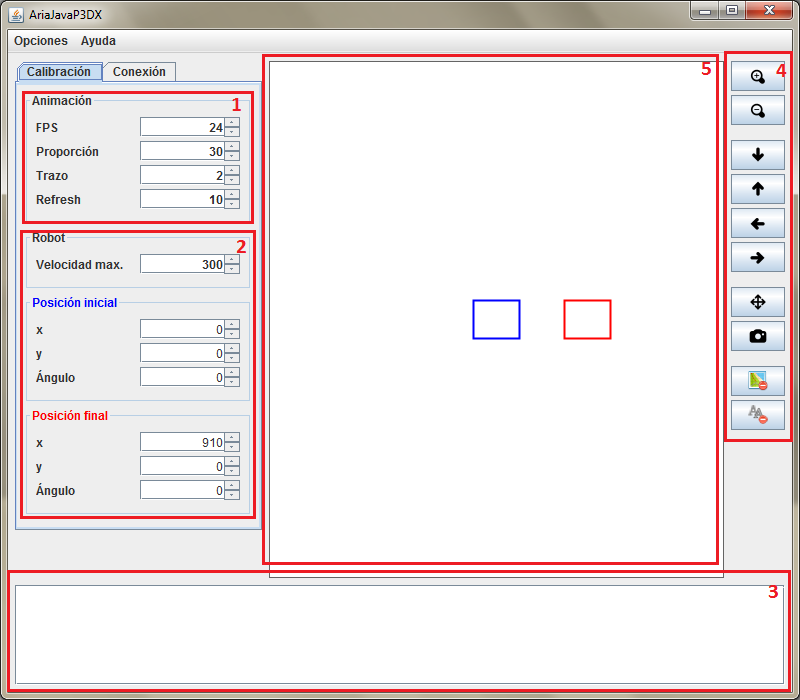
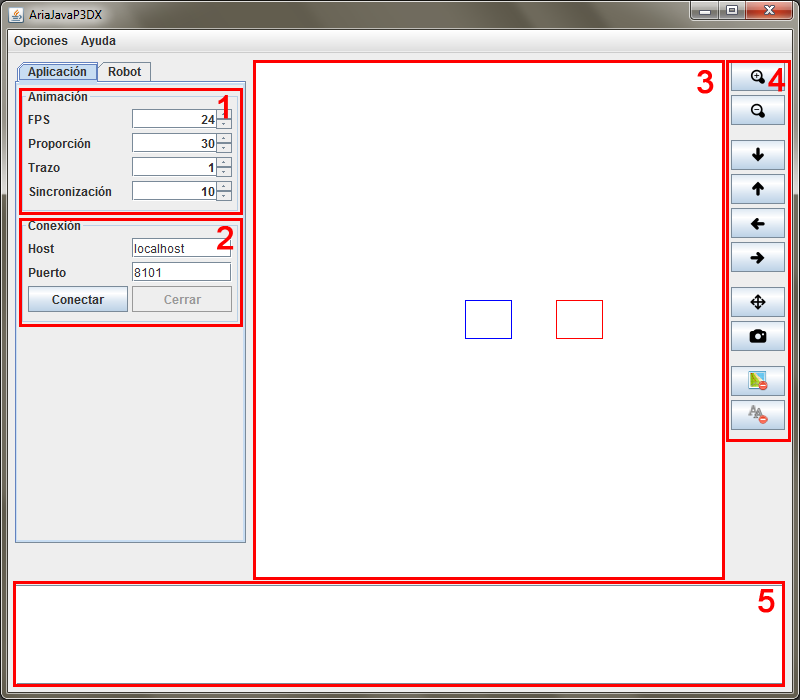
Actualizadas imagenes

diff --git a/others/paper/articulo.tex b/others/paper/articulo.tex
@@ -197,7 +197,7 @@ Por otra parte, se explica el funcionamiento e instalación sobre sistemas opera
 desarrollada. Se exponen los resultados y conclusiones del conjunto de pruebas 
 realizadas para validar la arquitectura. En los resultados alcanzados se encontró 
 que el robot tiene la capacidad de dirigirse por el espacio efectivamente más no completamente eficiente. 
-%También se pudo observar que el robot responde satisfactoriamente a obstaculos inesperados. 
+También se pudo observar que el robot responde satisfactoriamente a obstaculos inesperados. 
 
  \textbf{Palabras clave}: Robótica, ARIA, AuRA, Arquitectura Híbrida, Pioneer P3DX.}}
 \end{center}
@@ -401,9 +401,7 @@ este está disponible al público con licencia de software \textbf{MIT} en la si
 \subsubsection*{\textit{Planificador de misión}}
 
 Con el fin de planificar la misión, se desarrolló una interfaz gráfica intuitiva que permite configurar
-los parámetros generales, cargar la información cartográfica y además presentar la ruta óptima que deberá recorrer el robot. 
-Como se observa en la \reffigure{fig:planificador} se puede ingresar la posición inicial y final deseada, además de la velocidad máxima del robot, 
-y posee un conjunto de herramientas para la manipulación del mapa.
+los parámetros generales, cargar la información cartográfica y además presentar la ruta óptima que deberá recorrer el robot \refpfigure{fig:planificador}. 
 
 \begin{figure}[here]
 \begin{center}
@@ -541,7 +539,8 @@ Q.adicionar(s)\;
 
 Se desarrolló una herramienta computacional llamada \textbf{AriaJavaP3DX}, que provee los elementos gráficos necesarios para 
 configurar y monitorear el comportamiento del robot Pioneer P3DX.
-Como se muestra en las Figuras \ref{fig:ventana-principal-partes} y \ref{fig:ventana-principal-conexion}, la ventana principal está compuesta por 7 elementos:
+
+Como se muestra en las Figuras \ref{fig:ventana-principal-partes} y \ref{fig:ventana-principal2}, la ventana principal está compuesta por 8 elementos básicos:
 
 \begin{figure}[H]
 \begin{center}
@@ -553,34 +552,41 @@ Como se muestra en las Figuras \ref{fig:ventana-principal-partes} y \ref{fig:ven
 
 \begin{figure}[H]
 \begin{center}
-\includegraphics[width=10cm]{ventana-principal-conexion-partes.png} 
+\includegraphics[width=10cm]{ventana-principal2-partes.png} 
 \caption{Partes de la ventana principal.}
-\label{fig:ventana-principal-conexion}
+\label{fig:ventana-principal2}
 \end{center}
 \end{figure} 
 
 \begin{enumerate}
-\item En la sección \textbf{Animación} de la pestaña \textbf{Calibración}, se puede configurar la animación 
+\item Esta sección permite configurar la animación 
 a través de los siguientes items: \textbf{FPS}, cuadros por segundo (en ingles \comillas{Frames per second}), 
 se refiere a la frecuencia en que se actualiza la imagen de la animación. \textbf{Proporción}, es la proporción del mapa en 
 la animación con respecto a la medida original en milímetros. \textbf{Trazo}, es el grosor del trazado de las imágenes en la 
-animación. \textbf{Refresh}, es la frecuencia en segundos en que se verifica la posición real del robot y se actualiza la 
+animación. \textbf{Sincronización}, es la frecuencia en segundos en que se verifica la posición real del robot y se actualiza la 
 posición del robot animado.
-\item La sección \textbf{Robot}, permite asigna la velocidad máxima, las posiciones inicial y final del robot. 
-\item En la parte inferior de la ventana se encuentra la consola, permite observar los mensajes que se generan en la ejecución
-de la aplicación.
+\item En el panel \textbf{Conexión} se establece la dirección IP y el puerto de conexión con el robot.
+\item En la región central de la ventana se localiza la animación, se puede observar un ejemplo en la \reffigure{fig:mapa-cargado}. 
 \item En el lateral derecho de la ventana se encuentran una serie de botones que permiten manipular el mapa.
  En primer lugar 
 se puede hacer zoom sobre el mapa \refpfigure{subfig:botones-zoom}. Además se puede mover la ubicación del mapa hacia los 4 puntos 
-cardinales \refpfigure{subfig:botones-mover-mapa}. Por otra parte, se puede centrar el mapa \refpfigure{subfig:botones-centrar-capturar} y hacer una captura de imagen, al presionar el botón de captura de imagen (ícono camara fotográfica) se
+cardinales \refpfigure{subfig:botones-mover-mapa}. Por otra parte, se puede centrar el mapa \refpfigure{subfig:botones-centrar-capturar} y hacer una captura de imagen, al presionar el botón de captura de imagen (ícono cámara fotográfica) se
 muestra la ventana de guardar imagen \refpfigure{fig:guardar-imagen}. Los últimos botones \refpfigure{subfig:botones-ocultar-mapa} permiten mostrar u ocultar
 la ruta óptima calculada y activar o desactivar el antialiasing.
-\item En la región central de la ventana se observa el canvas donde se genera la animación, 
-como se puede observar en la \reffigure{fig:mapa-cargado}. 
-\item En la pestaña \textbf{Conexión} se puede establecer la arquitectura de control del robot.
-En el item \textbf{Arquitectura}, se puede seleccionar entre un comportamiento solamente reactivo
-o la arquitectura AuRA.
-\item Esta última sección permite establecer la dirección IP y el puerto de conexión con el robot.
+\item En la parte inferior de la ventana se encuentra la consola, permite observar los mensajes que se generan en la ejecución
+de la aplicación.
+\item En este panel se puede establecer la arquitectura de control del robot.
+En el item \textbf{Arquitectura}, se puede elegir entre la arquitectura AuRA o un comportamiento solamente reactivo.
+\item Este panel permite manipular el conjunto de variables que permiten calibrar el comportamiento del robot, estas son:
+\begin{enumerate}
+\item \textbf{Velocidad max.:} velocidad máxima alcanzada por el robot.
+\item \textbf{Robot delay:} tiempo de espera entre acciones.
+\item \textbf{Error distancia:} distancia máxima permitida entre el robot y los objetivos.
+\item \textbf{Error ángulo:} diferencia máxima permitida entre el ángulo del robot y el ángulo deseado.
+\item \textbf{Distancia min:} distancia mínima tolerada entre el robot y un obstáculo.
+\item \textbf{Ángulo sonar:} rango de detección del sonar.
+\end{enumerate}
+\item Esta última sección esta destinada a asignar la posición de inicio y fin del robot.
 \end{enumerate} 
 
 \begin{figure}[H]
@@ -641,7 +647,7 @@ La opción \textbf{Ver configuración} permite visualizar la lista de valores de
 
 \begin{figure}[H]
 \begin{center}
-\includegraphics[width=3cm]{menu-opciones2.png} 
+\includegraphics[width=2cm]{menu-opciones2.png} 
 \caption{Menú opciones.}
 \label{fig:menu-opciones}
 \end{center}

diff --git a/src/app/gui/ViewApp.java b/src/app/gui/ViewApp.java
@@ -168,7 +168,7 @@ public class ViewApp extends JFrame {
 
 	private void init() {
 		setLayout(new BorderLayout());
-		setSize(800, 750);
+		setSize(800, 700);
 		setTitle(Config.get("APP_NAME"));
 
 		menuBar = new JMenuBar();
